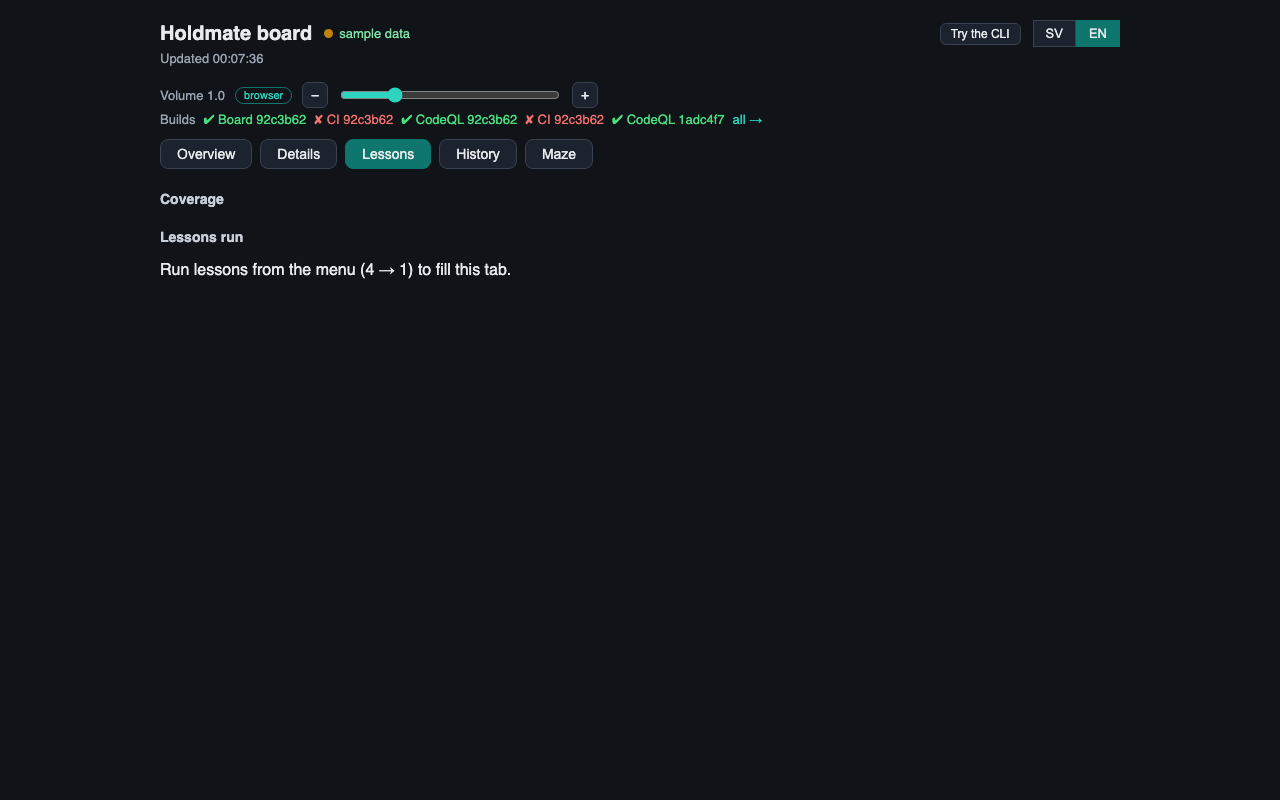
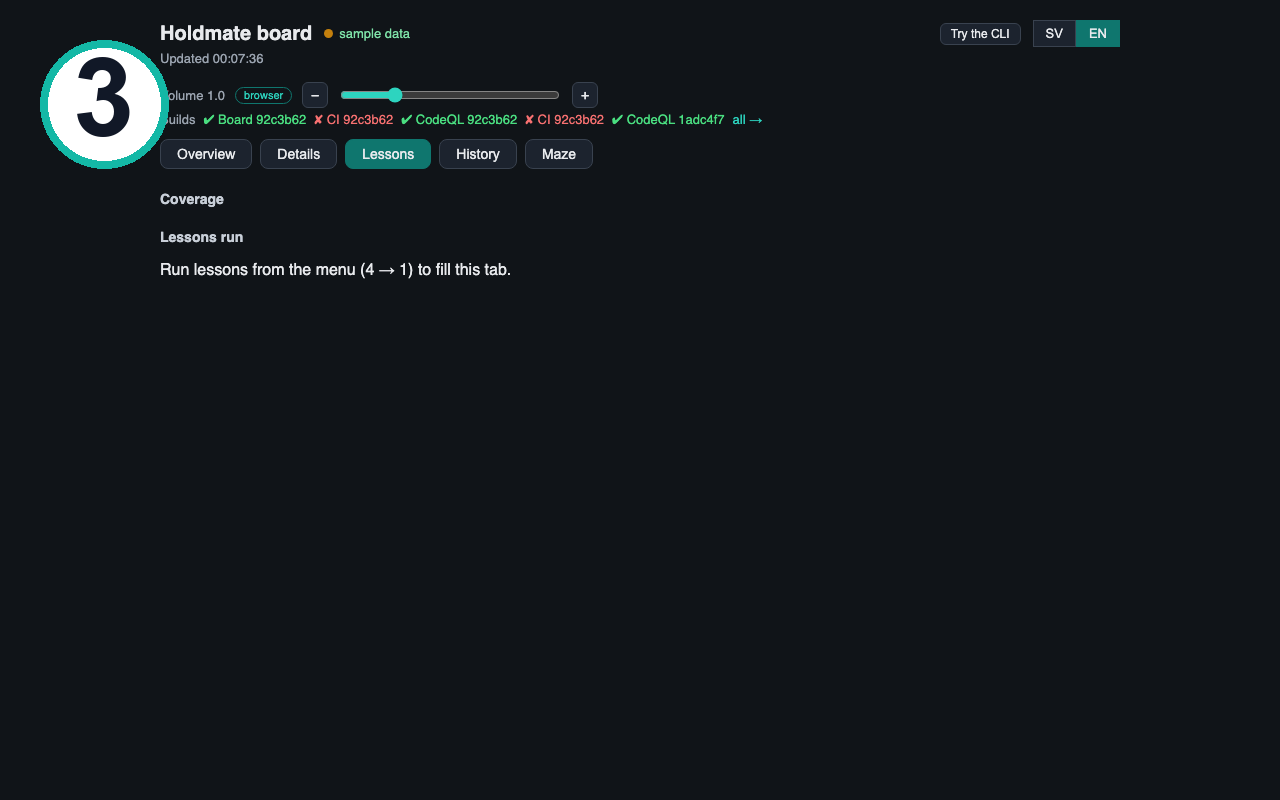
README: numbered screenshots + problem + arch diagram; bandit sha1 fix

Changed region(s): [[0.0312, 0.0312, 0.1562, 0.2188]]

diff --git a/docs/annotate-screens.py b/docs/annotate-screens.py
@@ -1,0 +1,63 @@
+#!/usr/bin/env python3
+"""Overlay big step-number badges on README screenshots.
+
+Reads docs/images/raw/*.png (created from the plain shots on first run),
+writes numbered docs/images/board-*.png. Re-runnable: badges always come
+from the raw originals, never stacked.
+
+Usage (needs Pillow in the project .venv): python3 docs/annotate-screens.py
+"""
+from pathlib import Path
+
+from PIL import Image, ImageDraw, ImageFont
+
+IMAGES = Path(__file__).resolve().parent / "images"
+RAW = IMAGES / "raw"
+SHOTS = (
+    ("board-overview.png", "1"),
+    ("board-queue.png", "2"),
+    ("board-lessons.png", "3"),
+    ("board-pacman.png", "4"),
+)
+RADIUS = 64
+CENTER = (104, 104)
+TEAL = (20, 184, 166)
+WHITE = (255, 255, 255)
+INK = (17, 24, 39)
+FONTS = (
+    "/Library/Fonts/Arial Bold.ttf",
+    "/System/Library/Fonts/Supplemental/Arial Bold.ttf",
+)
+
+
+def load_font(size: int):
+    for path in FONTS:
+        try:
+            return ImageFont.truetype(path, size)
+        except OSError:
+            continue
+    return ImageFont.load_default(size=size)
+
+
+def main() -> None:
+    RAW.mkdir(exist_ok=True)
+    font = load_font(110)
+    for name, number in SHOTS:
+        plain = IMAGES / name
+        raw = RAW / name
+        if not raw.exists():
+            raw.write_bytes(plain.read_bytes())
+        img = Image.open(raw).convert("RGB")
+        draw = ImageDraw.Draw(img)
+        x, y = CENTER
+        draw.ellipse(
+            [x - RADIUS, y - RADIUS, x + RADIUS, y + RADIUS],
+            fill=WHITE, outline=TEAL, width=8,
+        )
+        draw.text((x, y - 6), number, font=font, fill=INK, anchor="mm")
+        img.save(plain)
+        print(f"badged {name} as {number}")
+
+
+if __name__ == "__main__":
+    main()

diff --git a/src/adaptive_ivr_agent/robot.py b/src/adaptive_ivr_agent/robot.py
@@ -46,7 +46,8 @@ def opening_cache_path(
     cache_dir when missing.
     """
     digest = hashlib.sha1(
-        "\0".join([voice, en_voice, text]).encode(ENCODING)
+        "\0".join([voice, en_voice, text]).encode(ENCODING),
+        usedforsecurity=False,
     ).hexdigest()
     directory = Path(cache_dir)
     directory.mkdir(parents=True, exist_ok=True)

diff --git a/README.md b/README.md
@@ -2,15 +2,46 @@
 
 Calling a robot operator like Sweden's Public Employment Service means menus, queues, and waiting on hold. Holdmate is an adaptive IVR agent that learns to make those calls for you: it practices safely against AF Agda, a scripted copy of the real line built from recorded calls, so the real line is never touched during training — then it helps on real calls with a live board, queue ticket, and handover prompts up to BankID identification.
 
+## The problem it solves
+
+Swedish government phone lines (employment service, social insurance, police non-emergency) are run by voice robots that only understand exact words — nobody tells you which. Say anything else and the robot repeats "answer yes or no" forever; then you wait in long queues, ears glued to the speaker so you don't miss your turn. It hits hardest those who need help most: stressed job seekers, non-native speakers, people with ADHD or disabilities.
+
+Holdmate learns these lines for you: it maps the menu by practicing on a scripted copy, waits in the queue, and hands you the call when a human answers. Source: [the application draft](Meta_Hackathon_2026_Application_Form.md).
+
 ## Screenshots
 
-![Live board overview](docs/images/board-overview.png)
+**Screenshot 1 — live board overview:** the call mapped onto the process, live.
 
-![Queue ticket](docs/images/board-queue.png)
+![Screenshot 1: live board overview](docs/images/board-overview.png)
 
-![BFS lessons](docs/images/board-lessons.png)
+**Screenshot 2 — queue ticket:** your place, counting down; N/A until the queue arrives.
 
-![Menu map](docs/images/board-pacman.png)
+![Screenshot 2: queue ticket](docs/images/board-queue.png)
+
+**Screenshot 3 — BFS lessons:** every sim run, and what Holdmate learned from it.
+
+![Screenshot 3: BFS lessons](docs/images/board-lessons.png)
+
+**Screenshot 4 — menu map maze:** exploration drawn as a maze; dead ends are walls.
+
+![Screenshot 4: menu map maze](docs/images/board-pacman.png)
+
+Screenshots 5–6 (iPhone + Watch queue ticket) are taken on the devices and added next — image 5 is the number Rickard asked for.
+
+## Architecture (high level)
+
+```mermaid
+flowchart LR
+    REC["1 Record\nVoice Memo"] --> TR["2 Transcribe\nClaude"]
+    TR --> ROB["3 Practice robot\n43 lines + FSM"]
+    ROB --> AGT["4 Agent learns\nBFS lessons + knowledge"]
+    AGT --> LIVE["5 Live board\nReact + queue"]
+    LIVE --> DEV["6 Devices\niPhone + Watch"]
+    AGT --> CALL["7 Real calls\nspeaker / 46elks"]
+    CALL --> HAND["8 Handover\nBankID by human"]
+```
+
+Full detail with alternatives in [docs/system-overview.md](docs/system-overview.md).
 
 ## Quickstart
 
